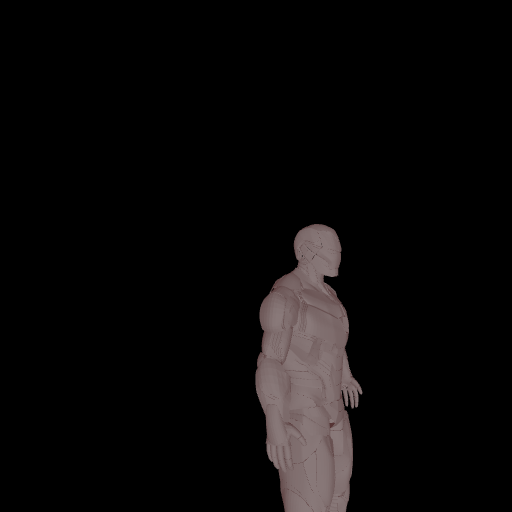
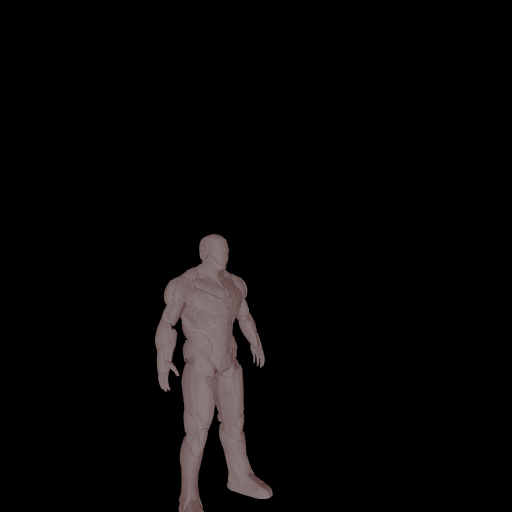
a lot of changes and tests!!

Changed region(s): [[0.2812, 0.4375, 0.7188, 1.0]]

diff --git a/second_simulation.py b/second_simulation.py
@@ -1,0 +1,131 @@
+import numpy as np
+import open3d as o3d
+import radial_distortion_invariant as rdi
+import trimesh
+import matplotlib.pyplot as plt
+from matplotlib.collections import PolyCollection
+from mpl_toolkits.mplot3d import Axes3D
+from numpy.linalg import inv
+
+
+
+def main():
+    model_path='files/iron man.obj'
+
+
+
+    #mesh = trimesh.load(model_path, force='mesh', process=False,showcoords=True)
+    #mesh.show()
+    focal_len=300
+    size=512
+    K=np.array([[focal_len,0,size/2],[0,focal_len,-size/2],[0,0,1]])
+    K_inv=inv(K)
+    arr0 = [-10, 4, 0, 0, np.deg2rad(70), 0]
+    arr1=[0,6,0,np.deg2rad(-20),0,0]
+    arr2 = [-10, 12, 0, 0, np.deg2rad(45), 0]
+    arr3 = [-10, 4, 0, 0, np.deg2rad(60), 0]
+    arr4=[9,3,0,np.deg2rad(-20),np.deg2rad(280),0]
+    arr5=[0,1,7,np.deg2rad(-90),0,0]
+
+    pm=np.array([[1.73205081,0,0,0],[0,1.73205081,0,0],[0,0,-1,-0.1],[0,0,-1,0]])
+
+    cam0=rdi.calc_cam_mat_custom(arr0)
+    cam1=rdi.calc_cam_mat_custom(arr1)
+    cam2=rdi.calc_cam_mat_custom(arr2)
+    cam3=rdi.calc_cam_mat_custom(arr3)
+    cam4=rdi.calc_cam_mat_custom(arr4)
+    cam5=rdi.calc_cam_mat_custom(arr5)
+    point3d=np.array([0.5,5.7,-2.3,1])
+    """
+    pixels=[]
+    pixels.append(cam0@point3d)
+    pixels.append(cam1 @ point3d)
+    pixels.append(cam2 @ point3d)
+    pixels.append(cam3 @ point3d)
+    pixels.append(cam4 @ point3d)
+    pixels.append(cam5 @ point3d)
+    polyCoefs = [0.5, -0.5, 1.5]
+    print(pixels)
+    pixels=np.array(pixels)
+    print(pixels)
+    for i in range(pixels.shape[0]):
+        pixels[i,:]=pixels[i,:]/pixels[i,2]
+    pixels=pixels[:,[0,1]]
+    print(pixels)
+
+    l=[cam0,cam1,cam2,cam3,cam4,cam5]
+    cams=np.array(l)
+    print(cams.shape)
+    res=rdi.radialDistortionInvariant3dEstimationMultiview(cams,pixels)
+    print('res:',np.array(res))
+    """
+    """right hand pixels from images"""
+    pixelsRight0=np.array([469,203,1])
+    pixelsRight1=np.array([383, 115,1])
+    pixelsRight2=np.array([348,194,1])
+    pixelsRight4 = np.array([255, 284, 1])
+    pixelR0=reverse_from_pixel(pixelsRight0,512,512)
+    pixelR1 = reverse_from_pixel(pixelsRight1, 512, 512)
+    pixelR4 = reverse_from_pixel(pixelsRight4, 512, 512)
+    """left hand pixels from images"""
+    pixelsLeft0=np.array([400,275,1])
+    pixelsLeft1=np.array([384,392,1])
+    pixelsLeft2=np.array([330, 260,1])
+    pixelsLeft4=np.array([334, 345,1])
+
+    pixelL0=reverse_from_pixel(pixelsLeft0,512,512)
+    pixelL1 = reverse_from_pixel(pixelsLeft1, 512, 512)
+    pixelL4 = reverse_from_pixel(pixelsLeft4, 512, 512)
+
+
+    pixelHead0=np.array([239,226,1])
+    pixelHead1 = np.array([255, 27, 1])
+    pixelHead4 = np.array([330, 53, 1])
+    ph0=reverse_pixel(pixelHead0,512,512)
+    ph1 = reverse_pixel(pixelHead1, 512, 512)
+    ph4 = reverse_pixel(pixelHead4, 512, 512)
+
+    resRight,ok=rdi.radialDistortionInvariant3dEstimation(inv_cam_mat(cam0), inv_cam_mat(cam1),inv_cam_mat( cam4),pixelR0,pixelR1,pixelR4)
+    print('right hand 3d:\n',resRight)
+    print(ok)
+
+    resLeft, ok = rdi.radialDistortionInvariant3dEstimation(inv_cam_mat(cam0), inv_cam_mat(cam1),inv_cam_mat( cam4),pixelL0,pixelL1,pixelL4)
+    print('left hand 3d:\n', resLeft)
+    print(ok)
+
+    #resHead,ok=rdi.radialDistortionInvariant3dEstimation(cam0,cam1,cam4,ph0,ph1,ph4)
+    #print('head:\n',resHead)
+    return
+
+
+
+
+def reverse_pixel(pixel,width,height):
+    rev=np.float32([1,1,1])
+    rev[0]=pixel[0]*(1/width)
+    rev[1]=pixel[1]*(1/height)
+    rev-=0.5
+    rev*=2
+    return rev
+
+def reverse_from_pixel(pixels,w,h):
+    p=np.array(pixels)
+    if(len(pixels.shape)==1):
+        p[0]=((2*pixels[0])/w)-1
+        p[1]=((-2*pixels[1])/h)+1
+        return p
+    for i,pix in enumerate(pixels):
+        p[i,0]=((2*pix[0])/w)-1
+        p[i,1]=((-2*pix[1])/h)+1
+    return p
+
+def inv_cam_mat(cam):
+    if(cam.shape==(4,4)):
+        inverse=inv(cam)
+        return inverse[0:3]
+    inverse=np.vstack((cam,[0,0,0,1]))
+    return inv(inverse)[0:3]
+
+
+if __name__=='__main__':
+    main()

diff --git a/radial_distortion_invariant.py b/radial_distortion_invariant.py
@@ -60,6 +60,7 @@ def calc_cam_mat_custom(cam_params):
     pi_mat=np.array([[1,0,0],[0,np.cos(pi),-1*np.sin(pi)],[0,np.sin(pi),np.cos(pi)]])
     R=ro_mat*pi_mat*az_mat
     R=np.matmul(np.matmul(ro_mat,pi_mat),az_mat)
+#    R=np.matmul(np.matmul(pi_mat,ro_mat),az_mat)
     cam_params=np.array([cam_params])
     t=cam_params[:,0:3].transpose()
     cam_mat=np.hstack((R,t))
@@ -78,7 +79,16 @@ def applyDistortion(idealPixels,polyCoefs):
     distorted_pixels=np.vstack((first,second))
     return distorted_pixels
 
+def applyDistortionSingleP(idealPixels,polyCoefs):
+    """create distortion"""
+    ideal_pixel_radius=(idealPixels[0]**2+idealPixels[1]**2)**(0.5)
 
+    distorted_pixel_radius=polyCoefs[0]*np.power(ideal_pixel_radius,5) +polyCoefs[1]*np.power(ideal_pixel_radius,3)+ideal_pixel_radius*polyCoefs[2]
+    cam_radius_ratio=distorted_pixel_radius/ideal_pixel_radius
+    first=idealPixels[0]*cam_radius_ratio
+    second=idealPixels[1]*cam_radius_ratio
+    distorted_pixels=np.vstack((first,second))
+    return distorted_pixels
 
 def tl2cen(points, size):
     """
@@ -155,4 +165,14 @@ def  radialDistortionInvariant3dEstimationMultiview(cams,camsPixelDistorted):
     :param camsPixelDistorted:
     :return:
     """
-    pass
+    nCams=cams.shape[0]
+    planes=np.zeros((nCams,1,4))
+    success=True
+    for i in range(nCams):
+        p,ok=getPlanesFromPixel(cams[i,:,:],camsPixelDistorted[i,:])
+        planes[i, :]=p.T
+        success=success and ok
+    result,ok=get3planesIntersectionMultiview(planes)
+    success=success and ok
+    return result,success
+

diff --git a/image_rendering_from3d.py b/image_rendering_from3d.py
@@ -5,6 +5,7 @@ import trimesh
 import pyrender
 import cv2
 import os
+from numpy.linalg import inv
 
 
 def main():
@@ -21,15 +22,14 @@ def main():
        we can use the images for testing later"""
 
     to_save=False
-    image_name='image6.png'
+    image_name='image7.png'
     model_path='files/iron man.obj'
     folder_result = "projection results\iron man"
     cur_dir=os.path.dirname(__file__)
-
-
-
-
-
+    zfar=100
+    znear=0.1
+    focal_len=300
+    size=512
     temp=trimesh.load(model_path,force='mesh',process=False)
     mesh = pyrender.Mesh.from_trimesh(temp, smooth=False)
     scene = pyrender.Scene(ambient_light=[.1, .1, .3], bg_color=[0, 0, 0])
@@ -37,10 +37,10 @@ def main():
     camera = pyrender.PerspectiveCamera(yfov=np.pi/3 ,aspectRatio=1)
     light = pyrender.DirectionalLight(color=[1, 1, 1], intensity=500)
 
-    Tx=0 #verticle axis
-    Ty=1 #horizontle axis
-    Tz=7 #height axis
-    Rx=np.deg2rad(-90)
+    Tx=5 #verticle axis
+    Ty=20 #horizontle axis
+    Tz=0 #height axis
+    Rx=np.deg2rad(0)
     Ry=np.deg2rad(0)
     Rz=np.deg2rad(0)
     arr=[Tx,Tz,Ty,Rx,Ry,Rz]
@@ -54,7 +54,7 @@ def main():
     r = pyrender.OffscreenRenderer(512, 512)
     color, _ = r.render(scene)
     title='Tx='+str(Tx)+', Ty='+str(Ty)+', Tz='+str(Tz)+', Rx='+str(np.rad2deg(Rx))+ ' deg, Ry=' + str(np.rad2deg(Ry)) + ' deg, Rz=' +str(np.rad2deg(Rz))+ ' deg'
-
+    test = camera.get_projection_matrix(size, size)
 
     cv2.imshow('sds',color)
     cv2.waitKey()

diff --git a/applyDistortion.py b/applyDistortion.py
@@ -4,25 +4,32 @@ from wand.image import Image
 import os
 
 def main():
-    path="projection results\iron man/image5.png"
+    to_save=True
+    image_name='image3distorted.png'
+    folder_result = "projection results\iron man"
+    cur_dir=os.path.dirname(__file__)
+    path="projection results\iron man/image3.png"
 
     img = cv2.imread(path)
-    coef=(0.15,0,0,1)
-    newimg=apply_distortion_lib(path,coef)
+    coef=(0.2,0,0,1)
+    newimg=apply_distortion(path,coef)
 
     # Display old and new image
     cv2.imshow('ideal',img)
     cv2.imshow('distorted',newimg)
     cv2.waitKey()
+    os.chdir(os.path.join(cur_dir, folder_result))
+    if (to_save):
+        cv2.imwrite(image_name, newimg)
 
 
 
 
 
-def apply_distortion_lib(path,coef=(0.5, 0.0, 0.0, 1.0)):
+def apply_distortion(path,coef=(0.8, 0.0, 0.0, 1.0)):
     with Image(filename=path) as img:
         print(img.size)
-        #img.virtual_pixel = 'transparent'
+        img.virtual_pixel = 'transparent'
         img.distort('barrel', coef)
         img_opencv = np.array(img)
 

diff --git a/simulation.py b/simulation.py
@@ -15,11 +15,12 @@ def main():
     cam0=matrix_from_file('Matlab Code/cam0.txt')
     cam1=matrix_from_file('Matlab Code/cam1.txt')
     cam2 = matrix_from_file('Matlab Code/cam2.txt')
+
     idealPixeelCam0=matrix_from_file('Matlab Code/cam0pixelsIdeal.txt')
     idealPixeelCam1 = matrix_from_file('Matlab Code/cam1pixelsIdeal.txt')
     idealPixeelCam2 = matrix_from_file('Matlab Code/cam2pixelsIdeal.txt')
     points3D=matrix_from_file('Matlab Code/points3D.txt')
-    polyCoefs = [1000, 350, 12323]
+
     polyCoefs = [0.5, -0.5, 1.5]
     print(points3D.shape)
     distortedPixelCam0=np.array(rdi.applyDistortion(idealPixeelCam0,polyCoefs))

diff --git a/open3d_rendering.py b/open3d_rendering.py
@@ -1,0 +1,20 @@
+import open3d as o3d
+import numpy as np
+import radial_distortion_invariant as rdi
+import matplotlib.pyplot as plt
+import trimesh
+import pyrender
+import cv2
+import os
+from numpy.linalg import inv
+
+
+def main():
+    mesh=o3d.geometry.TriangleMesh.create_box(1,2,3)
+
+
+
+
+
+if(__name__=='__main__'):
+    main()

diff --git a/Matlab Code/radial_distortion_invariant.m b/Matlab Code/radial_distortion_invariant.m
@@ -12,7 +12,7 @@ points3D(1,:) = points3D(1,:) - 0.5;
 points3D(2,:) = points3D(2,:) - 0.5;
 points3D(3,:) = points3D(3,:) + 2;
 
-K = eye(3);
+K = eye(3)*3;
 cam0 = [eye(3) [0 ;0 ;0]];
 a =  0.17;
 cam1 = [1,      0,     0, 0;...
